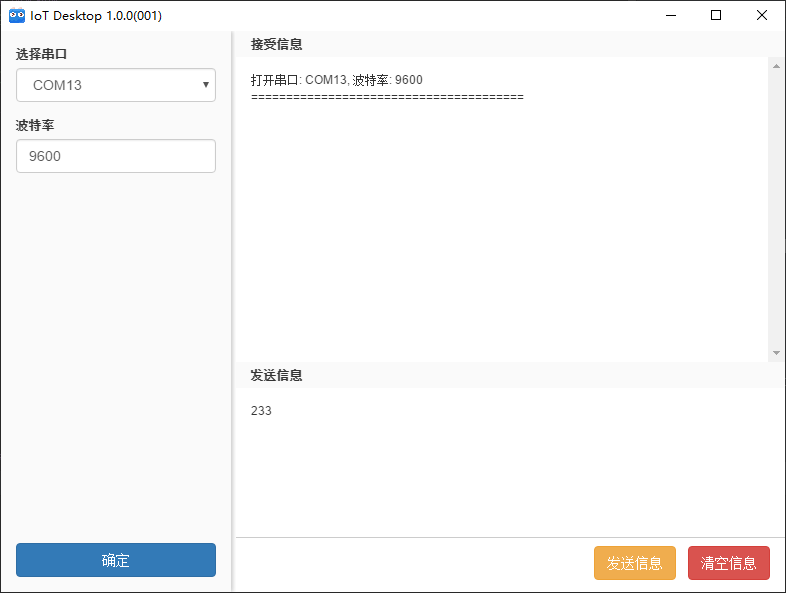
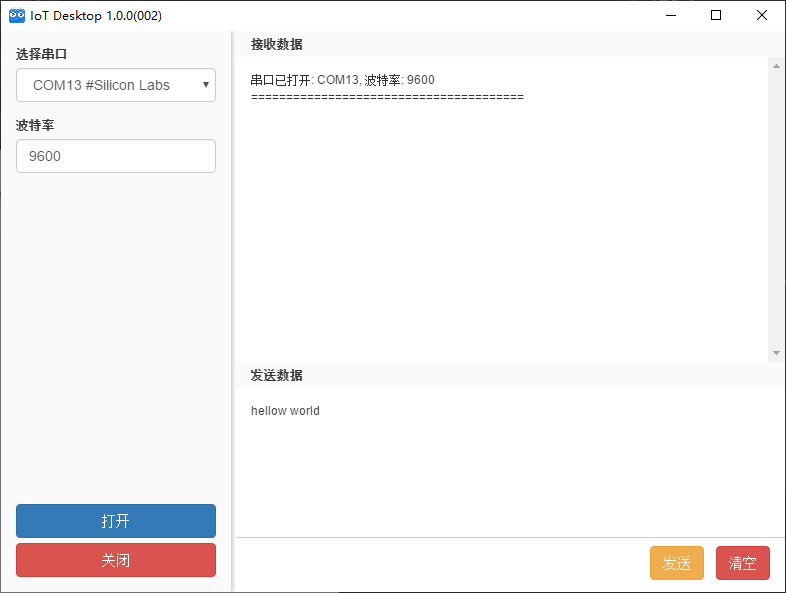
完善UI界面，完善一些数据处理和显示的方式

diff --git a/index.html b/index.html
@@ -6,7 +6,7 @@
     <meta name="viewport" content="width=device-width, initial-scale=1.0">
     <meta http-equiv="X-UA-Compatible" content="ie=edge">
     <link rel="shortcut icon" href="static/favicon.ico">
-    <title>IoT Desktop 1.0.0(001)</title>
+    <title>IoT Desktop 1.0.0(002)</title>
     <script src="./public/js/flexible.js"></script>
     <link rel="stylesheet" href="./public/css/bootstrap.min.css">
     <link rel="stylesheet" href="./public/css/index.css">
@@ -27,13 +27,14 @@
                 </div>
             </div>
             <div class="submit-data">
-                <button class="btn btn-primary btn-block btn-submit">确定</button>
+                <button class="btn btn-primary btn-block btn-submit">打开</button>
+                <button class="btn btn-danger btn-block btn-cancle">关闭</button>
             </div>
         </div>
         <div class="content-box">
             <div class="receive-box">
                 <div class="send-header">
-                    <label>接受信息</label>
+                    <label>接收数据</label>
                 </div>
                 <div class="receive-windows">
                 </div>
@@ -41,58 +42,21 @@
 
             <div class="send-box">
                 <div class="send-header">
-                    <label>发送信息</label>
+                    <label>发送数据</label>
                 </div>
                 <div class="send-windows">
                     <textarea class="input-send-data"></textarea>
                 </div>
                 <div class="send-btn">
                     <div class="btn-box">
-                        <div class="btn btn-warning btn-send">发送信息</div>&nbsp&nbsp&nbsp
-                        <div class="btn btn-danger btn-reset">清空信息</div>
+                        <div class="btn btn-warning btn-send">发送</div>&nbsp&nbsp&nbsp
+                        <div class="btn btn-danger btn-reset">清空</div>
                     </div>
                 </div>
             </div>
         </div>
     </div>
 </body>
-<script>
-    window.$ = window.jQuery = require('./public/js/jquery.min.js');
-    let serialport = require('serialport');
-    let port = null;
-    serialport.list((err, ports) => {
-        for (let item of ports) {
-            $('.com').append(`<option>${item.comName}</option>`)
-        }
-        console.log(ports);
-    });
-    $('.btn-submit').click((data) => {
-        let COM = $('select option:selected').text();
-        let BaudRate = $('#BaudRate').val();
-        console.log(COM);
-        console.log(BaudRate);
-        port = new serialport(COM, {
-            baudRate: parseInt(BaudRate)
-        });
-        $('.receive-windows').text(`打开串口: ${COM}, 波特率: ${BaudRate}`);
-        $('.receive-windows').append('<br/>=======================================<br/>');
-        port.on('data', data => {
-            console.log(`DATA: ${data}`);
-            $('.receive-windows').append(data.toString());
-        });
-    });
-    // 点击发送信息
-    $('.btn-send').click(() => {
-        var sendData = $('.input-send-data').val();
-        if (port != {} && port != null) {
-            console.log(`SendData: ${sendData}`);
-            port.write(sendData);
-        }
-    })
-    // 清空信息
-    $('.btn-reset').click(() => {
-        $('.input-send-data').val('');
-    })
-</script>
+<script>require('./index')</script>
 
 </html>

diff --git a/index.js b/index.js
@@ -1,0 +1,74 @@
+/**
+ * Created by dell on 2019-07-31.
+ */
+/*
+ * jQuery语法  $(selector).action()
+ */
+window.$ = window.jQuery = require('./public/js/jquery.min.js');
+
+/*let name = 'IoT Desktop';
+let version = '1.0.0(002)';
+//$('title').text(name + ' ' version);
+
+$('title').text('${name + ' ' version}');*/
+
+let serialport = require('serialport');
+let port = null;
+serialport.list((err, ports) => {
+    for (let item of ports) {
+        $('.com').append(`<option>${item.comName + " #" + item.manufacturer}</option>`)
+    }
+    console.log(ports);
+});
+// 打开串口
+$('.btn-submit').click((data) => {
+    let COM = ($('select option:selected').text()).split(' #')[0];
+
+    let BaudRate = $('#BaudRate').val();
+    console.log(COM);
+    console.log(BaudRate);
+
+    port = new serialport(COM, {
+        baudRate: parseInt(BaudRate)
+    });
+    $('.receive-windows').text(`串口已打开: ${COM}, 波特率: ${BaudRate}`);
+    $('.receive-windows').append('<br/>=======================================<br/>');
+
+    //打开串口并接收数据
+    port.on('data', data => {
+        console.log(`DATA: ${data}`);
+        $('.receive-windows').append(data.toString());
+    });
+
+    //打开错误将会发出一个错误事件
+    port.on('error',function(err){
+        console.log('Error: ',err.message);
+    });
+});
+// 关闭串口
+$('.btn-cancle').click(() => {
+    let COM = $('select option:selected').text();
+
+    //关闭串口
+    port.close()
+    console.log('serialport close success')
+
+    $('.receive-windows').text(`串口已关闭: ${COM}`);
+    $('.receive-windows').append('<br/>=======================================<br/>');
+});
+
+// 点击发送数据
+$('.btn-send').click(() => {
+    var sendData = $('.input-send-data').val();
+    if (port != {} && port != null) {
+        console.log(`SendData: ${sendData}`);
+        port.write(sendData, (err) =>{
+            if (err) return console.log('write Error: ', err.message);
+        });
+    }
+})
+// 清空接收的数据
+$('.btn-reset').click(() => {
+    //$('.input-send-data').val('');
+    $('.receive-windows').empty();
+})

diff --git a/loading.html b/loading.html
@@ -8,7 +8,7 @@
   <body style="background-image:url(public/img/icon.png);background-repeat:no-repeat">
     <div style="text-align:left; font-family: '微软雅黑'; margin-top:320px;">
       <h3 style="color: #fff">IoT Desktop</h3>
-      <p style="color: #fff;">V1.0.0(001)</p>
+      <p style="color: #fff;">V1.0.0(002)</p>
     </div>
   </body>
 

diff --git a/main.js b/main.js
@@ -1,8 +1,3 @@
-/*const electron = require('electron')
-// Module to control application life.
-const app = electron.app
-// Module to create native browser window.
-const BrowserWindow = electron.BrowserWindow*/
 
 const {app, BrowserWindow, ipcMain} = require('electron')
 

diff --git a/public/css/index.css b/public/css/index.css
@@ -37,6 +37,9 @@
     padding: 15px;
     overflow-y: scroll;
     overflow-x: hidden;
+
+    word-wrap: break-word;
+    word-break: normal;
 }
 
 .send-box {

diff --git a/README.md b/README.md
@@ -1,8 +1,8 @@
 # IoT-electron
 ## 版本
->1.0.0 r01
+>1.0.0 (002)
 ## 版本描述
->完成electron项目创建，加入ipc通信、serialport，移植electron-serialport代码
+>完善UI界面，完善一些数据处理和显示的方式
 
 ## 说明
 >blockbot及ikakabot系列机器人控制器应用程序，采用electron框架，基于串口通信
@@ -33,6 +33,7 @@
 ### 开发指南
 - [electron文档](https://electronjs.org/docs)
 - [serialport文档](https://serialport.io/docs/guide-usage)
+- [jQuery教程](https://www.runoob.com/jquery/jquery-tutorial.html)
 
 ### 开源代码
 - [electron-serialport](https://github.com/PowerDos/electron-serialport)
